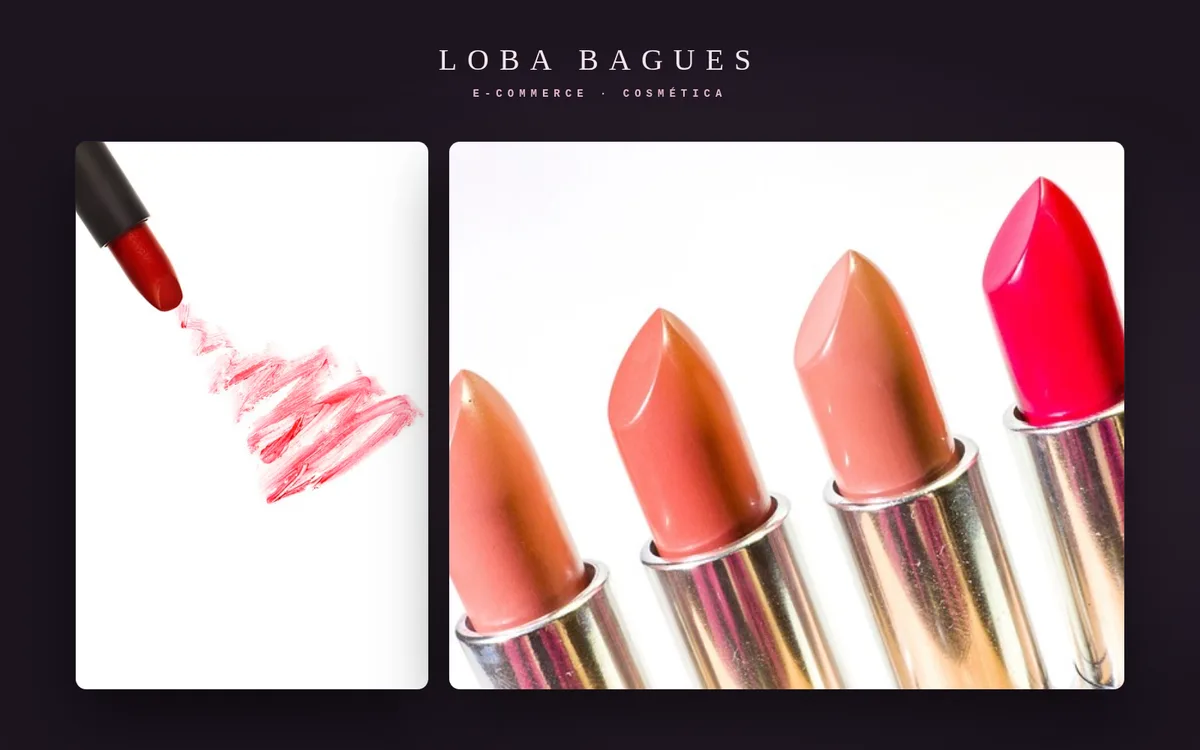
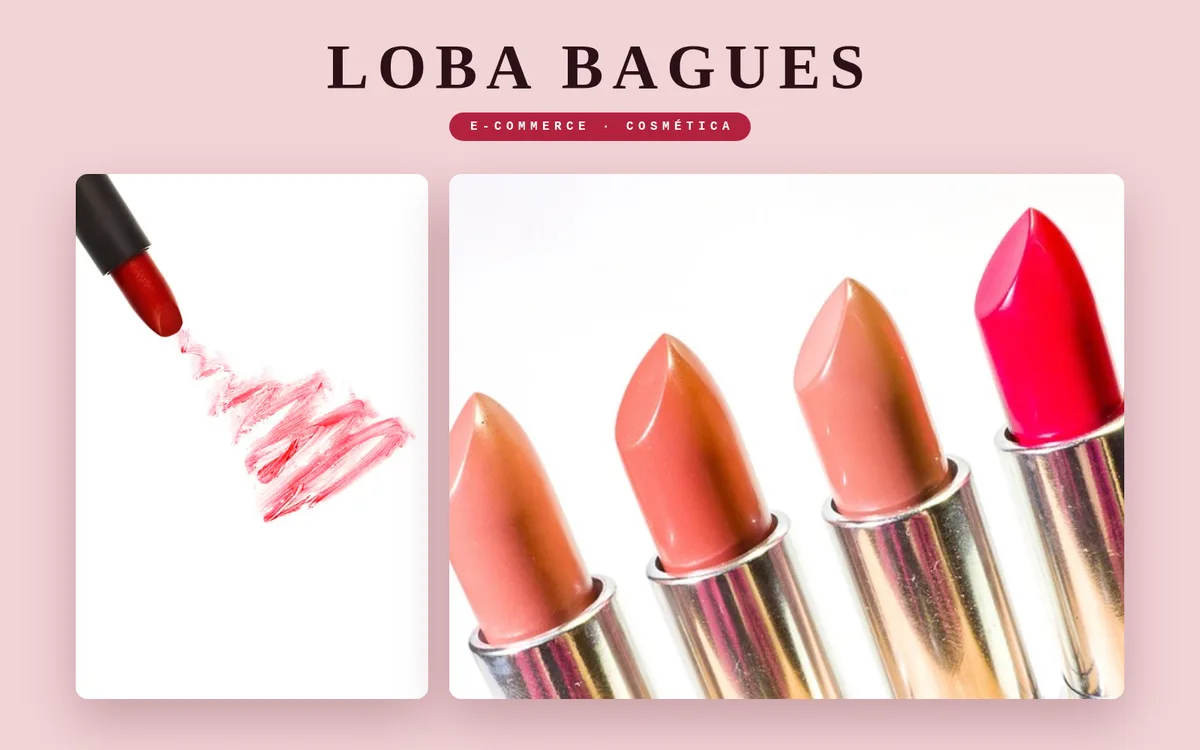
Redesign LOBA BAGUES cover with blush background and bolder title

diff --git a/src/components/landing/Portfolio.tsx b/src/components/landing/Portfolio.tsx
@@ -15,6 +15,7 @@ const projects = [
     title: "LOBA BAGUES",
     description: "Tienda online de cosmética con catálogo por categorías, promociones, carrito de compras y panel de gestión con autenticación.",
     image: "/projects/loba-bagues.webp",
+    imagePosition: "object-top",
     tags: ["Next.js", "TypeScript", "Tailwind", "Better Auth"],
     link: "https://loba-bagues.vercel.app",
     github: "https://github.com/mirtalonghi/LOBA_BAGUES"
@@ -77,7 +78,7 @@ const Portfolio: React.FC = () => {
                   alt={project.title}
                   loading="lazy"
                   decoding="async"
-                  className="w-full h-full object-cover group-hover:scale-110 transition-transform duration-500"
+                  className={`w-full h-full object-cover ${project.imagePosition ?? ''} group-hover:scale-110 transition-transform duration-500`}
                 />
                 <div className="absolute inset-0 bg-slate-950/60 opacity-0 group-hover:opacity-100 transition-opacity flex items-center justify-center gap-4">
                   {project.link && (
